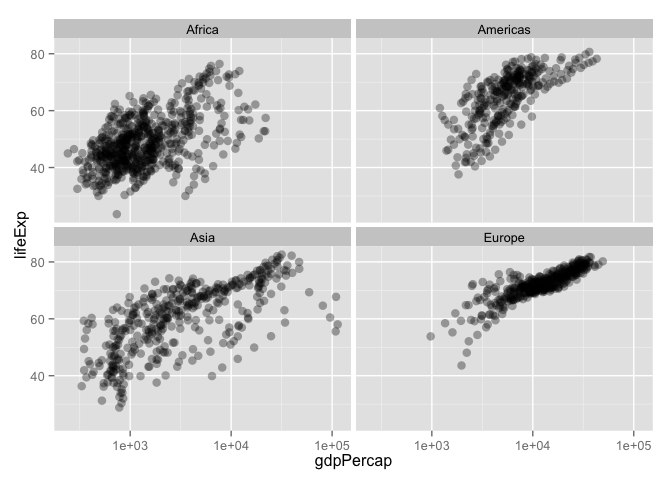
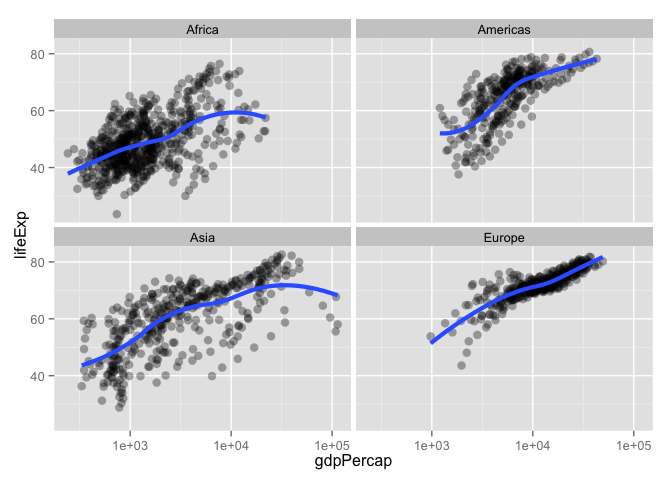
quote and wrap

diff --git a/block006_care-feeding-data.html b/block006_care-feeding-data.html
@@ -258,7 +258,7 @@ barplot(table(gapminder$continent))</code></pre>
 <p><img src="block006_care-feeding-data_files/figure-html/tabulate-continent-1.png" alt="" /></p>
 <p>In the figures below, we see how factors can be put to work in figures. The <code>continent</code> factor is easily mapped into “facets” or colors and a legend by the <code>ggplot2</code> package. <em>Making figures with <code>ggplot2</code> is covered elsewhere so feel free to just sit back and enjoy these plots or blindly copy/paste.</em></p>
 <pre class="r"><code>## install ggplot2 if you don&#39;t have it!
-## install.packages(ggplot2)
+## install.packages(&quot;ggplot2&quot;)
 library(ggplot2)
 p &lt;- ggplot(subset(gapminder, continent != &quot;Oceania&quot;),
             aes(x = gdpPercap, y = lifeExp)) # just initializes
@@ -267,7 +267,12 @@ p + geom_point() # scatterplot
 p + geom_point(aes(color = continent)) # map continent to color
 p + geom_point(alpha = (1/3), size = 3) + geom_smooth(lwd = 3, se = FALSE)
 ## geom_smooth: method=&quot;auto&quot; and size of largest group is &gt;=1000, so using gam with formula: y ~ s(x, bs = &quot;cs&quot;). Use &#39;method = x&#39; to change the smoothing method.
-p + geom_point(alpha = (1/3), size = 3) + facet_wrap(~ continent)</code></pre>
+p + geom_point(alpha = (1/3), size = 3) + facet_wrap(~ continent) +
+  geom_smooth(lwd = 1.5, se = FALSE)
+## geom_smooth: method=&quot;auto&quot; and size of largest group is &lt;1000, so using loess. Use &#39;method = x&#39; to change the smoothing method.
+## geom_smooth: method=&quot;auto&quot; and size of largest group is &lt;1000, so using loess. Use &#39;method = x&#39; to change the smoothing method.
+## geom_smooth: method=&quot;auto&quot; and size of largest group is &lt;1000, so using loess. Use &#39;method = x&#39; to change the smoothing method.
+## geom_smooth: method=&quot;auto&quot; and size of largest group is &lt;1000, so using loess. Use &#39;method = x&#39; to change the smoothing method.</code></pre>
 <p><img src="block006_care-feeding-data_files/figure-html/factors-nice-for-plots-1.png" title="" alt="" width="49%" /><img src="block006_care-feeding-data_files/figure-html/factors-nice-for-plots-2.png" title="" alt="" width="49%" /><img src="block006_care-feeding-data_files/figure-html/factors-nice-for-plots-3.png" title="" alt="" width="49%" /><img src="block006_care-feeding-data_files/figure-html/factors-nice-for-plots-4.png" title="" alt="" width="49%" /></p>
 </div>
 <div id="subset-is-a-nice-way-to-isolate-bits-of-data.frames-and-other-things" class="section level3">

diff --git a/block006_care-feeding-data.md b/block006_care-feeding-data.md
@@ -245,7 +245,7 @@ In the figures below, we see how factors can be put to work in figures. The `con
 
 ```r
 ## install ggplot2 if you don't have it!
-## install.packages(ggplot2)
+## install.packages("ggplot2")
 library(ggplot2)
 p <- ggplot(subset(gapminder, continent != "Oceania"),
             aes(x = gdpPercap, y = lifeExp)) # just initializes
@@ -254,7 +254,12 @@ p + geom_point() # scatterplot
 p + geom_point(aes(color = continent)) # map continent to color
 p + geom_point(alpha = (1/3), size = 3) + geom_smooth(lwd = 3, se = FALSE)
 ## geom_smooth: method="auto" and size of largest group is >=1000, so using gam with formula: y ~ s(x, bs = "cs"). Use 'method = x' to change the smoothing method.
-p + geom_point(alpha = (1/3), size = 3) + facet_wrap(~ continent)
+p + geom_point(alpha = (1/3), size = 3) + facet_wrap(~ continent) +
+  geom_smooth(lwd = 1.5, se = FALSE)
+## geom_smooth: method="auto" and size of largest group is <1000, so using loess. Use 'method = x' to change the smoothing method.
+## geom_smooth: method="auto" and size of largest group is <1000, so using loess. Use 'method = x' to change the smoothing method.
+## geom_smooth: method="auto" and size of largest group is <1000, so using loess. Use 'method = x' to change the smoothing method.
+## geom_smooth: method="auto" and size of largest group is <1000, so using loess. Use 'method = x' to change the smoothing method.
 ```
 
 <img src="block006_care-feeding-data_files/figure-html/factors-nice-for-plots-1.png" title="" alt="" width="49%" /><img src="block006_care-feeding-data_files/figure-html/factors-nice-for-plots-2.png" title="" alt="" width="49%" /><img src="block006_care-feeding-data_files/figure-html/factors-nice-for-plots-3.png" title="" alt="" width="49%" /><img src="block006_care-feeding-data_files/figure-html/factors-nice-for-plots-4.png" title="" alt="" width="49%" />
